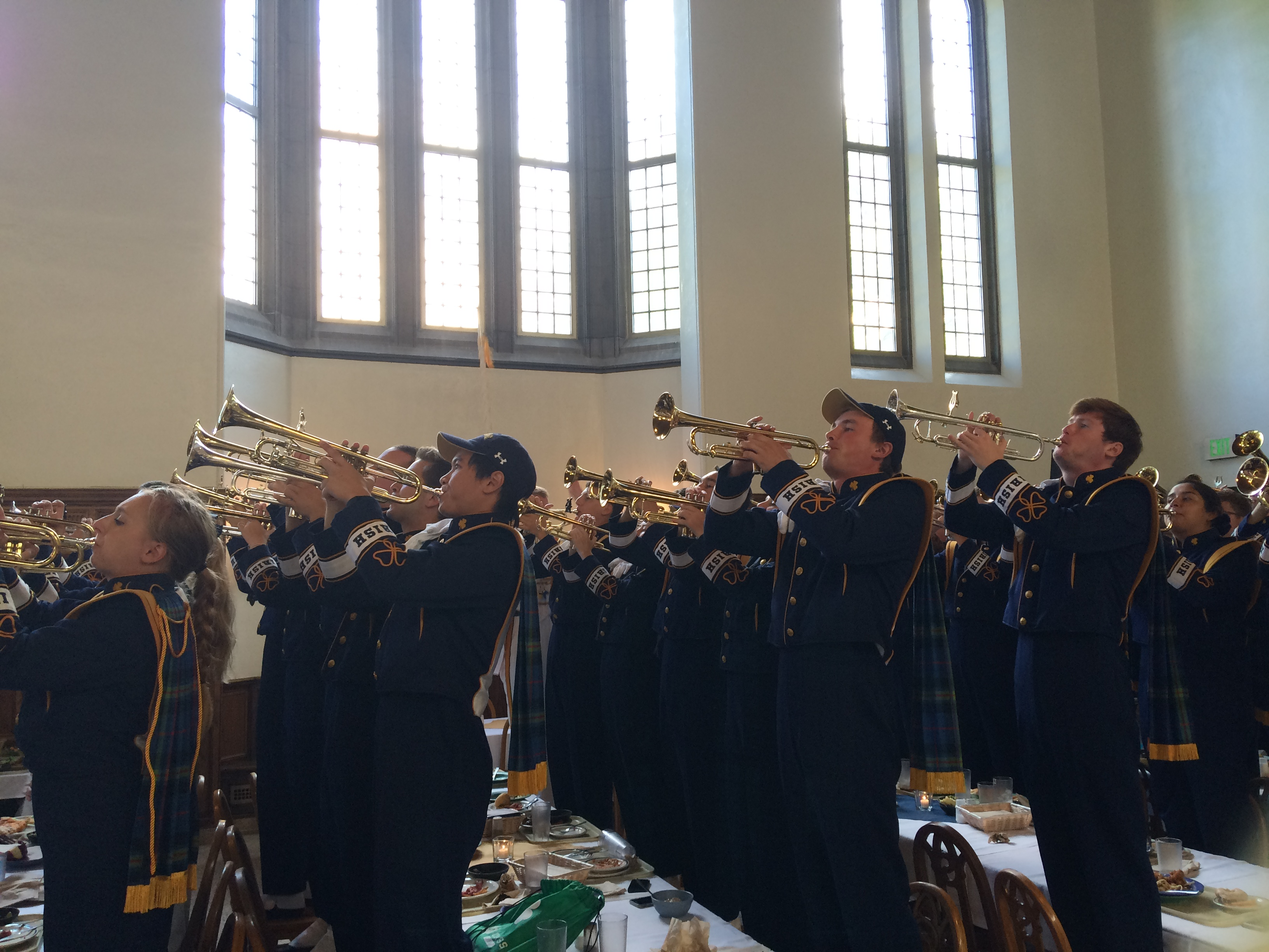
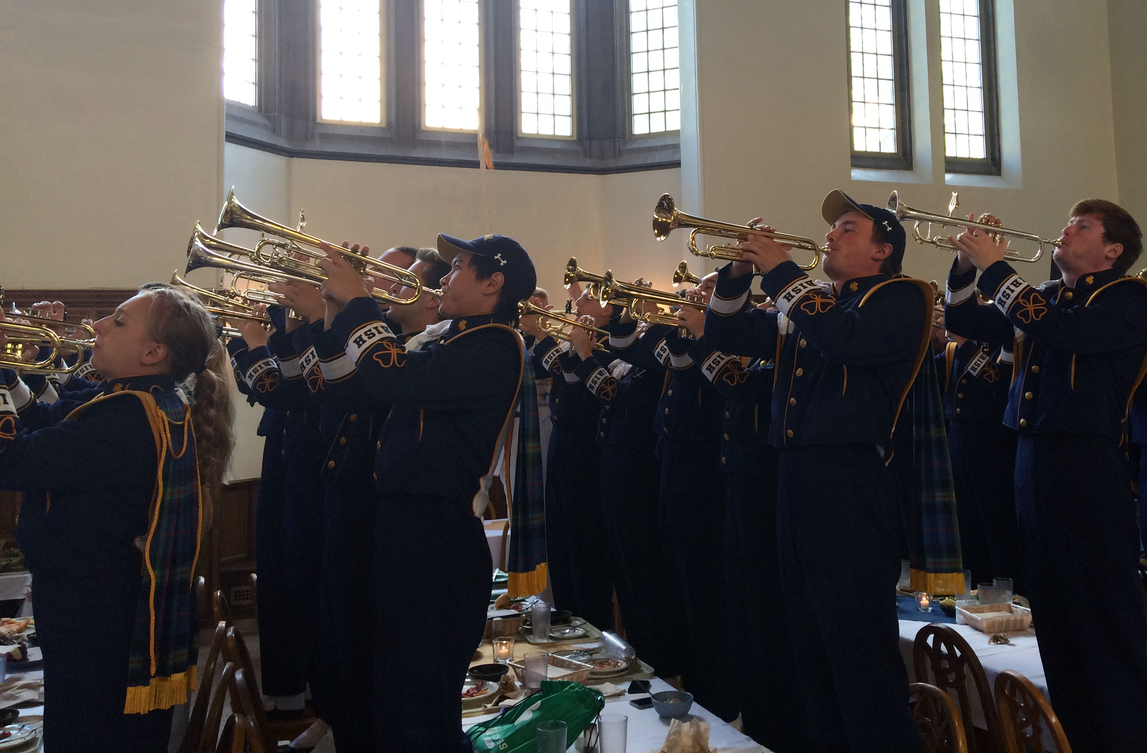
photoshopped some stuff

diff --git a/index.html b/index.html
@@ -143,7 +143,7 @@ padding: 0px 40px 0px 40px; position: absolute; top: 1000px; height: 400px;">
 		<td style="
 		border-radius: 0px 10px 10px 0px;
 		width: 50%;">
-			<img align=right src="media/gamedayDiningHall1.jpg" alt="Dunes2016" style="
+			<img align=right src="media/gamedayDiningHall1-edited.jpg" alt="Dunes2016" style="
 			max-width: 100%;
 			max-height: 100%;
 			height: auto;
@@ -168,7 +168,7 @@ padding: 0px 40px 0px 40px; position: absolute; top: 1000px; height: 400px;">
 		background-color: darkSlateBlue;
 		">
 			<h3 class="smallerHeaderTitle">
-				Generations of Trumpet Tradition
+				Over a Century of Tradition
 			</h3>
 			<br>
 			<h3 class="smallerHeader">
@@ -221,7 +221,7 @@ padding: 0px 40px 0px 40px; position: absolute; top: 1000px; height: 400px;">
 		<td style="
 		border-radius: 0px 10px 10px 0px;
 		width: 50%;">
-			<img align=right src="media/dunesJuniors2015.jpg" alt="Dunes2016" style="
+			<img align=right src="media/dunesJuniors2015-edited.jpg" alt="Dunes2016" style="
 			max-width: 100%;
 			max-height: 100%;
 			width: 100%;
@@ -318,12 +318,15 @@ padding: 0px 40px 0px 40px; position: absolute; top: 1000px; height: 400px;">
 	">
 		<tr>
 			<td>
-				<img align=left src="media/trumpetsMonogram2016.png" alt="trumpetLogo" style="
-				width: 400px;
+				<img align=left src="media/trumpetDrawing1.png" alt="trumpetLogo" style="
+				width: 450px;
 				height: auto;
 				"> 
 			</td>
-			<td>
+			<td
+				style="
+					padding: 40px 40px 40px 40px;
+				">
 				<h3 style="
 				color: lightSteelBlue;
 				font-weight: normal;
@@ -352,7 +355,7 @@ padding: 0px 40px 0px 40px; position: absolute; top: 1000px; height: 400px;">
 
 
 <!-- Trumpet Tree -->
-<div class="fixed-bg" align="right" style="position: absolute; top: 1850px; height:430px; background-image: url('media/trumpetTree2.jpg');">
+<div class="fixed-bg" align="right" style="position: absolute; top: 1920px; height:530px; background-image: url('media/trumpetTree2-edited.jpg');">
 <div class="trumpetTreeDiv">
 <br>
 <br>
@@ -385,7 +388,7 @@ Yes, let me speak to a trumpet!
 
 
 <!-- Follow Us Chunck -->
-<div align="center" class="followUsDiv" style="position: absolute; top: 2400px; height: 100px; width: 100%;">
+<div align="center" class="followUsDiv" style="position: absolute; top: 2500px; height: 100px; width: 100%;">
 <table align="center">
 	<tr>
 	<td>
@@ -409,7 +412,7 @@ Yes, let me speak to a trumpet!
 </table>
 </div>
 
-<div text-align="center" align="center" style="position: absolute; top: 2560px; text-align: center; width: 100%;">
+<div text-align="center" align="center" style="position: absolute; top: 2660px; text-align: center; width: 100%;">
 <h2 class="notreDameCopyright">&copy; Notre Dame Trumpets 2017</h2>
 <!--
 <h2 class="staticInfoTable">Notre Dame Bands</h2>
